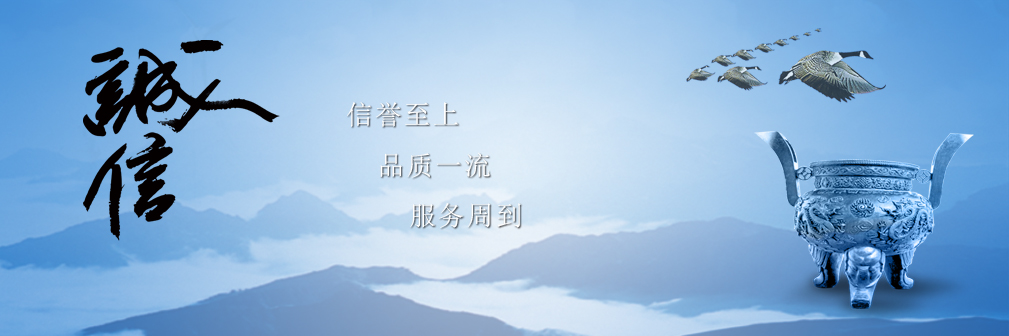
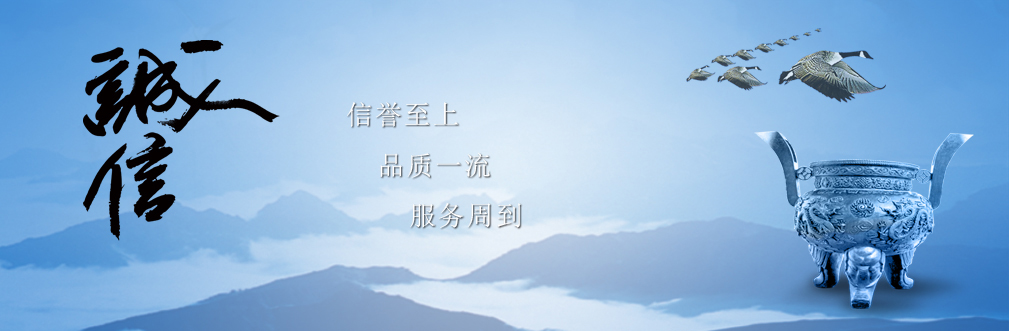
0317-1

diff --git a/ad/Banner/css/banner.css b/ad/Banner/css/banner.css
@@ -2,6 +2,11 @@
   margin: 0;
   padding: 0;
 }
+.adRoot{
+  margin-top:18px;
+  margin-left:auto;
+  margin-right:auto;
+}
 
 .slider {
   overflow: hidden;
@@ -30,8 +35,8 @@
 
 .slider .slider-arrow {
   display: inline-block;
-  color: #fff;
-  font-size: 50px;
+  color: #efefef;
+  font-size: 45px;
   position: absolute;
   top: 50%;
   margin-top: -50px;
@@ -63,20 +68,22 @@
 
 .slider .slider-dots-wrap .slider-dot {
   display: inline-block;
-  width: 6px;
-  height: 6px;
-  border: 3px solid #ccc;
+  width: 10px;
+  height: 10px;
+  /*border: 3px solid #ccc;*/
+  background:  #ccc;
   margin: 6px;
   cursor: pointer;
   border-radius: 20px;
 }
 
 .slider .slider-dots-wrap .slider-dot:hover {
-  border: 3px solid #868686;
+  /*border: 3px solid #868686;*/
+  background: #fff;
 }
 
 .slider .slider-dots-wrap .slider-dot.slider-dot-selected {
-  background: #ccc;
+  background: #fff;
 }
 
 

diff --git a/ad/Banner/Banner.jsx b/ad/Banner/Banner.jsx
@@ -172,15 +172,16 @@ export default class Banner extends Component {
 }
 
 Banner.defaultProps = {
-  speed: 1,
-  delay: 2,
-  pause: true,
-  autoplay: true,
-  dots: true,
-  arrows: true,
-  items: [],
-  size:"fullScreen",
-  animType:"Slider"
+    width:'1008px',
+    height:'331px',
+    speed: 1,
+    delay: 2,
+    pause: true,
+    autoplay: true,
+    dots: true,
+    arrows: true,
+    items: [],
+    animType:"Slider"
 };
 Banner.autoPlayFlag = null;
 

diff --git a/ad/MainPage.jsx b/ad/MainPage.jsx
@@ -38,13 +38,13 @@ var MainPage=React.createClass({
               items={IMAGE_DATA}
               width={'960px'}
               height={'380px'}
-              speed={0.4}
-              delay={2.1}
+              speed={0.6}
+              delay={2.6}
               pause={true}
               autoplay={true}
               dots={true}
               arrows={true}
-              animType={"grid"}
+              animType={"slider"}
           />
     );
   },
